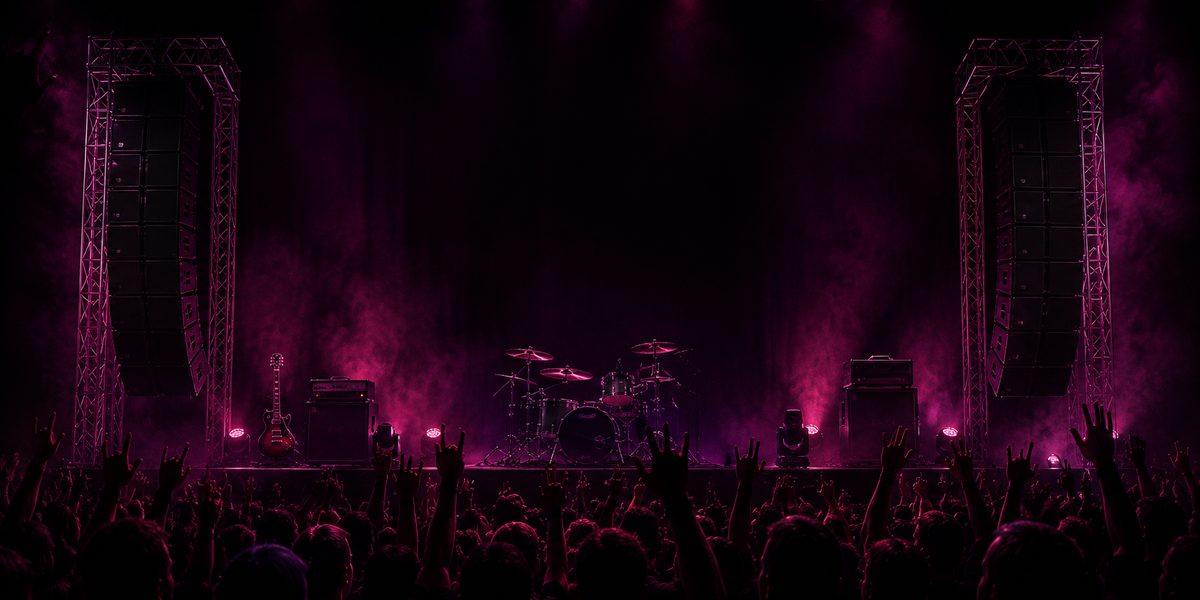
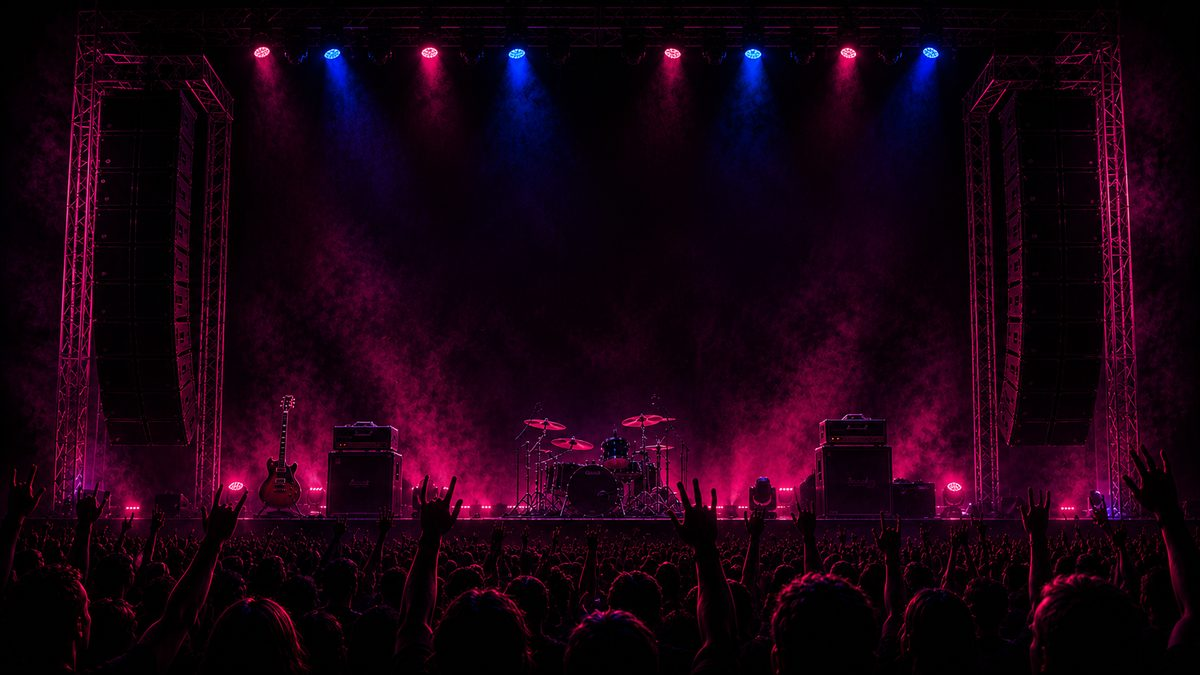
SFS Music: header background new 5 (pink/blue stage) v9

diff --git a/index.html b/index.html
@@ -867,7 +867,7 @@ function numShelf(title,arr){ if(arr.length<1) return ''; var tiles=arr.map(func
 /* ===== views: Play (home) · Explore · My Vaults ===== */
 var curEdition='music', curView='play';
 function setEdition(id){ curEdition=id; var e=edById(id); if(e) document.documentElement.style.setProperty('--accent', e.accent); applyTheme(id,true); render(); var app=document.getElementById('app'); if(app){ app.classList.remove('edin'); void app.offsetWidth; app.classList.add('edin'); } window.scrollTo(0,0); }
-var THEME={music:{hdr:"music-header.jpg?v=8",logo:"music-logo.png?v=3",floor:"music-floor.jpg?v=3",fb:0.3},filmtv:{hdr:"movies-header.jpg?v=1",logo:"movies-logo.png?v=1",floor:"movies-floor.jpg?v=1",fb:0.55},sports:{hdr:"sports-header.jpg?v=1",logo:"sports-logo.png?v=1",floor:"sports-floor.jpg?v=1",fb:0.3}};
+var THEME={music:{hdr:"music-header.jpg?v=9",logo:"music-logo.png?v=3",floor:"music-floor.jpg?v=3",fb:0.3},filmtv:{hdr:"movies-header.jpg?v=1",logo:"movies-logo.png?v=1",floor:"movies-floor.jpg?v=1",fb:0.55},sports:{hdr:"sports-header.jpg?v=1",logo:"sports-logo.png?v=1",floor:"sports-floor.jpg?v=1",fb:0.3}};
 var _hb=1,_lg=1,_fl=1;
 function applyTheme(id,animate){ var t=THEME[id]||THEME.music; var hb=1-_hb,h=document.getElementById('hdr'+hb),ho=document.getElementById('hdr'+_hb); if(h){h.style.backgroundImage="url('"+t.hdr+"')";h.style.opacity='1';} if(ho)ho.style.opacity='0'; _hb=hb; var lg=1-_lg,l=document.getElementById('logo'+lg),lo=document.getElementById('logo'+_lg); if(l){l.src=t.logo;l.style.opacity='1'; if(animate){l.classList.remove('pulse');void l.offsetWidth;l.classList.add('pulse');}} if(lo)lo.style.opacity='0'; _lg=lg; var fl=1-_fl,fe=document.getElementById('floor'+fl),foe=document.getElementById('floor'+_fl); if(fe){fe.style.backgroundImage="url('"+t.floor+"')";fe.style.opacity='1';} if(foe)foe.style.opacity='0'; _fl=fl; var fbg=document.getElementById('floorbg'); if(fbg) fbg.style.filter='brightness('+(t.fb||0.3)+')'; }
 function preloadThemes(){ for(var k in THEME){ (function(t){['hdr','logo','floor'].forEach(function(p){var im=new Image();im.src=t[p];});})(THEME[k]); } }

diff --git a/sw.js b/sw.js
@@ -1,4 +1,4 @@
-var CACHE='sfs-v33';
+var CACHE='sfs-v34';
 var ASSETS=['/','/index.html','/play.html','/manifest.webmanifest','/icon-192.png','/icon-512.png','/apple-touch-icon.png'];
 self.addEventListener('install',function(e){ e.waitUntil(caches.open(CACHE).then(function(c){return c.addAll(ASSETS).catch(function(){});}).then(function(){return self.skipWaiting();})); });
 self.addEventListener('activate',function(e){ e.waitUntil(caches.keys().then(function(keys){return Promise.all(keys.map(function(k){if(k!==CACHE)return caches.delete(k);}));}).then(function(){return self.clients.claim();})); });
